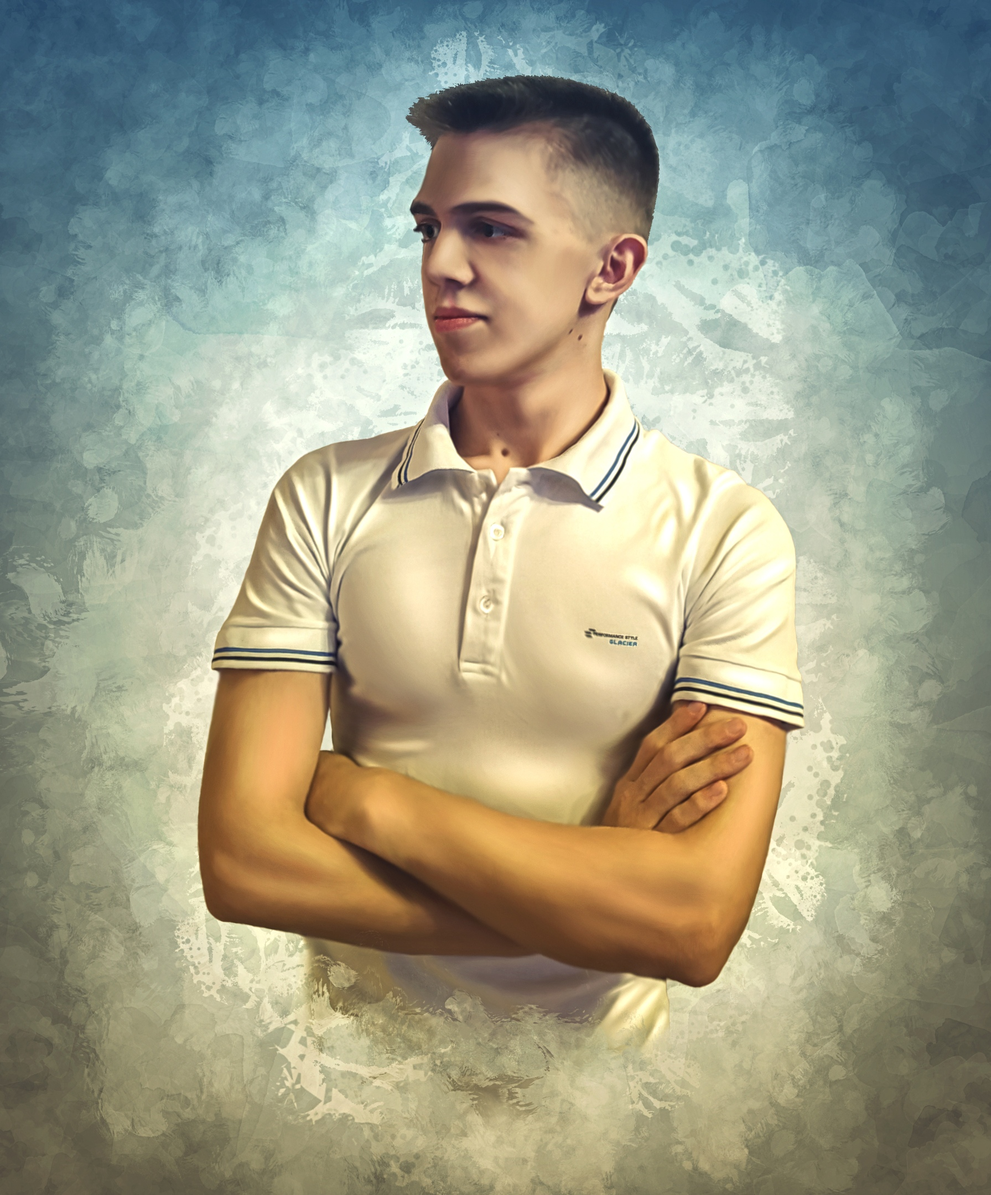
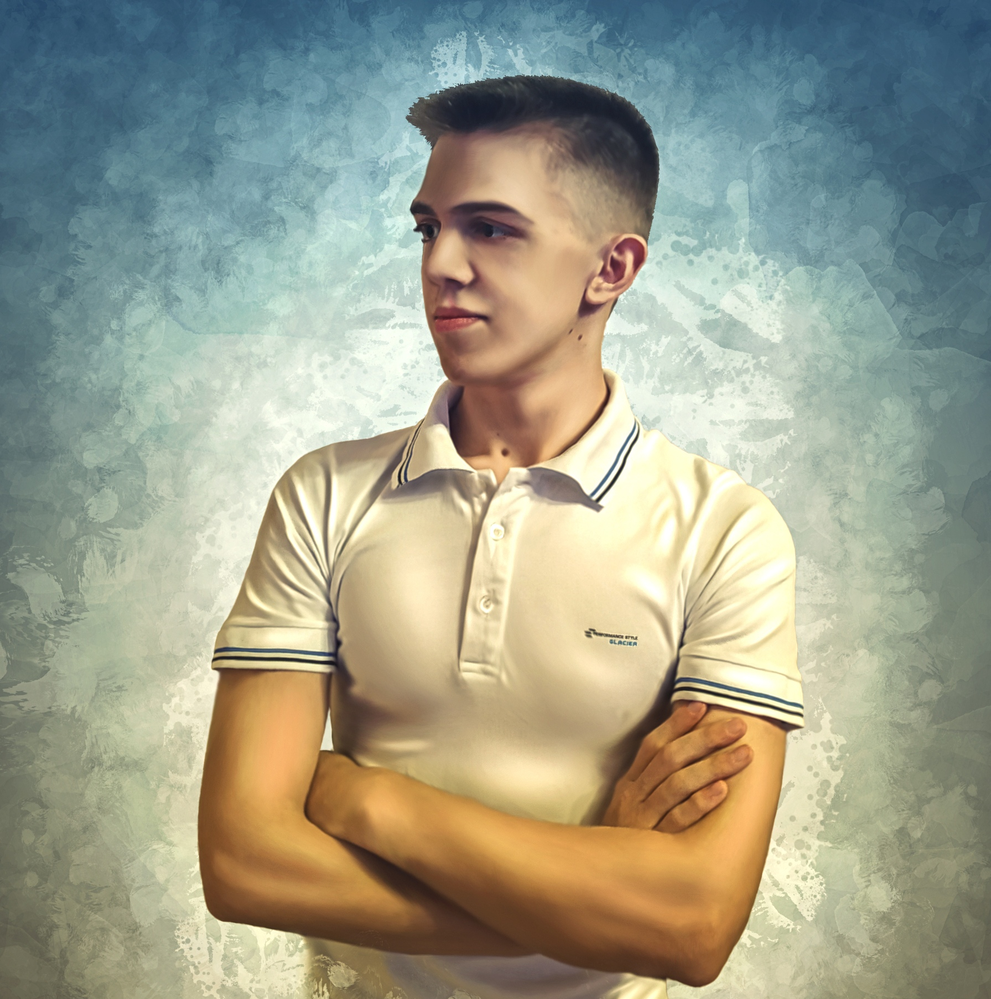
Improved the CSS code

diff --git a/style.css b/style.css
@@ -49,7 +49,6 @@ header div {
     color: rgba(255,255,255,0.8);
     text-decoration: none;
     font-family: 'Dosis', sans-serif;
-    /*border: 1px solid rgba(255,255,255,.8);*/
     border-radius: 20px;
     background-color: rgba(50, 50, 50, .5);
     box-shadow: 0 0 0 3px rgba(50, 50, 50,.5) inset, 0 0 0 4px white inset; 
@@ -185,11 +184,11 @@ h3 {
     color: white;
 }
 
-.skill_1:hover:before, .skill_2:hover:before, .skill_3:hover:before, .skill_4:hover:before {
+.grid div:hover:before {
     opacity: 0;
 }
 
-.skill_1:before, .skill_2:before, .skill_3:before, .skill_4:before {
+.grid div:before {
     border-radius: 3%;
     content: "";
     position: absolute;
@@ -231,7 +230,7 @@ a:hover {
     box-shadow: 0 0 28px rgba(0, 0, 0, 0.25), 0 0 15px rgba(0, 0, 0, 0.20);
 }
 
-.skill_1, .skill_2, .skill_3, .skill_4 { 
+.grid div { 
     border-radius: 3%;
     height: 100%;
     background-repeat: no-repeat;
@@ -260,7 +259,7 @@ a:hover {
 }
 
 .grid a {
-    font-size: 4rem;
+    font-size: 3rem;
 }
 
 .show-more {
@@ -295,7 +294,7 @@ a:hover {
     box-shadow: 0 0 10px rgba(0, 0, 0, 0.5), 5px 10px 10px rgba(0, 0, 0, 0.5);
 }
 
-.portfolio_1, .portfolio_2, .portfolio_3, .portfolio_4, .portfolio_5 {
+.list-portf a {
     background-color: #000;
     width: 200px;
     height: 200px;
@@ -305,6 +304,7 @@ a:hover {
     background-size: cover;
     background-position: top center;
     border-radius: 100%;
+    box-shadow: 0 0 0 2px rgba(255, 255, 255) inset;
 }
 
 .portfolio_1 {
@@ -327,17 +327,14 @@ a:hover {
     background-image: url(img/portfolio_5.jpg);
 }
 
-.image-avatar {
+.title-about-me img {
+    display: block;
     width: 15rem;
     height: 15rem;
-    background-image: url(img/Wj_4GyLil2o.jpg);
-    background-repeat: no-repeat;
-    background-size: 160%;
-    background-position: top center;
     border-radius: 100%;
     border: 3px solid #fff;
-    margin: 70px auto; 
-    box-shadow: rgba(50, 50, 50, 0.5) 0px 0px 25px 0px;
+    margin: 70px auto;
+    box-shadow: rgba(50, 50, 50,.5) 0 0 25px 0;
 }
 
 .info-about-me {
@@ -359,7 +356,7 @@ footer {
 }
 
 .social li:hover {
-    margin-top: -5px;
+    margin-top: -3px;
 }
 
 .social ul {

diff --git a/index.html b/index.html
@@ -111,7 +111,7 @@
                         About me
                     </h2>
                 </div>
-                <p class="image-avatar"></p>
+                <img src="img/Wj_4GyLil2o_about-me.jpg" alt="">
                 <div class="info-about-me">
                     <p>
                         &nbsp;&nbsp;&nbsp;&nbsp;Lorem ipsum dolor sit amet consectetur adipisicing elit. Aliquid dignissimos consequatur maiores, eaque officiis iure quaerat ea possimus quia, eum assumenda porro. Beatae enim dignissimos, possimus quisquam delectus fugit exercitationem cumque, ratione voluptate id sequi, harum nemo tempore! Ipsum maxime minima nulla impedit officia nostrum dolores assumenda nisi non iure eius blanditiis exercitationem earum dolor sequi, ab in veniam praesentium doloribus voluptas architecto eum eligendi voluptatum ducimus? Explicabo ipsa adipisci similique voluptas quod aliquam unde assumenda harum. Fugiat accusamus reprehenderit quas. Voluptate rerum sapiente quidem magnam eum autem fugiat vitae atque consectetur, inventore hic, quibusdam facilis ratione voluptatum cum repudiandae iusto laudantium, eligendi deserunt error quo. Quisquam autem minima enim inventore labore commodi tempora ipsa libero sit fugit omnis culpa porro vel repellat eum repudiandae recusandae nam pariatur, doloribus similique animi aut nostrum quia. Iusto architecto asperiores accusamus possimus necessitatibus voluptatem ex laboriosam commodi tenetur, optio voluptatibus enim, sapiente temporibus?
